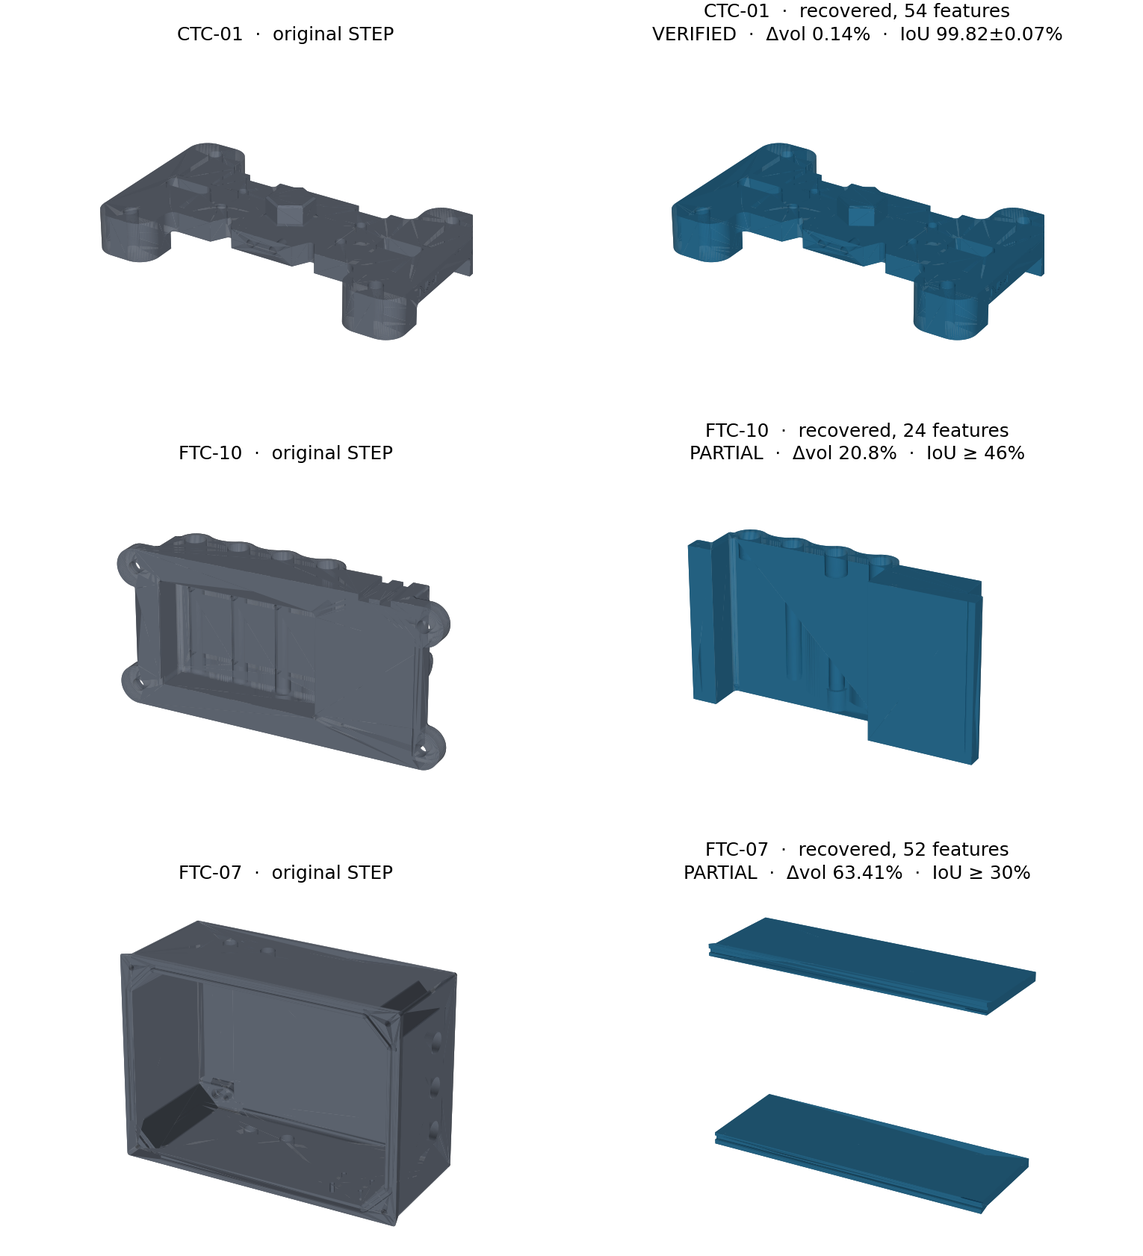
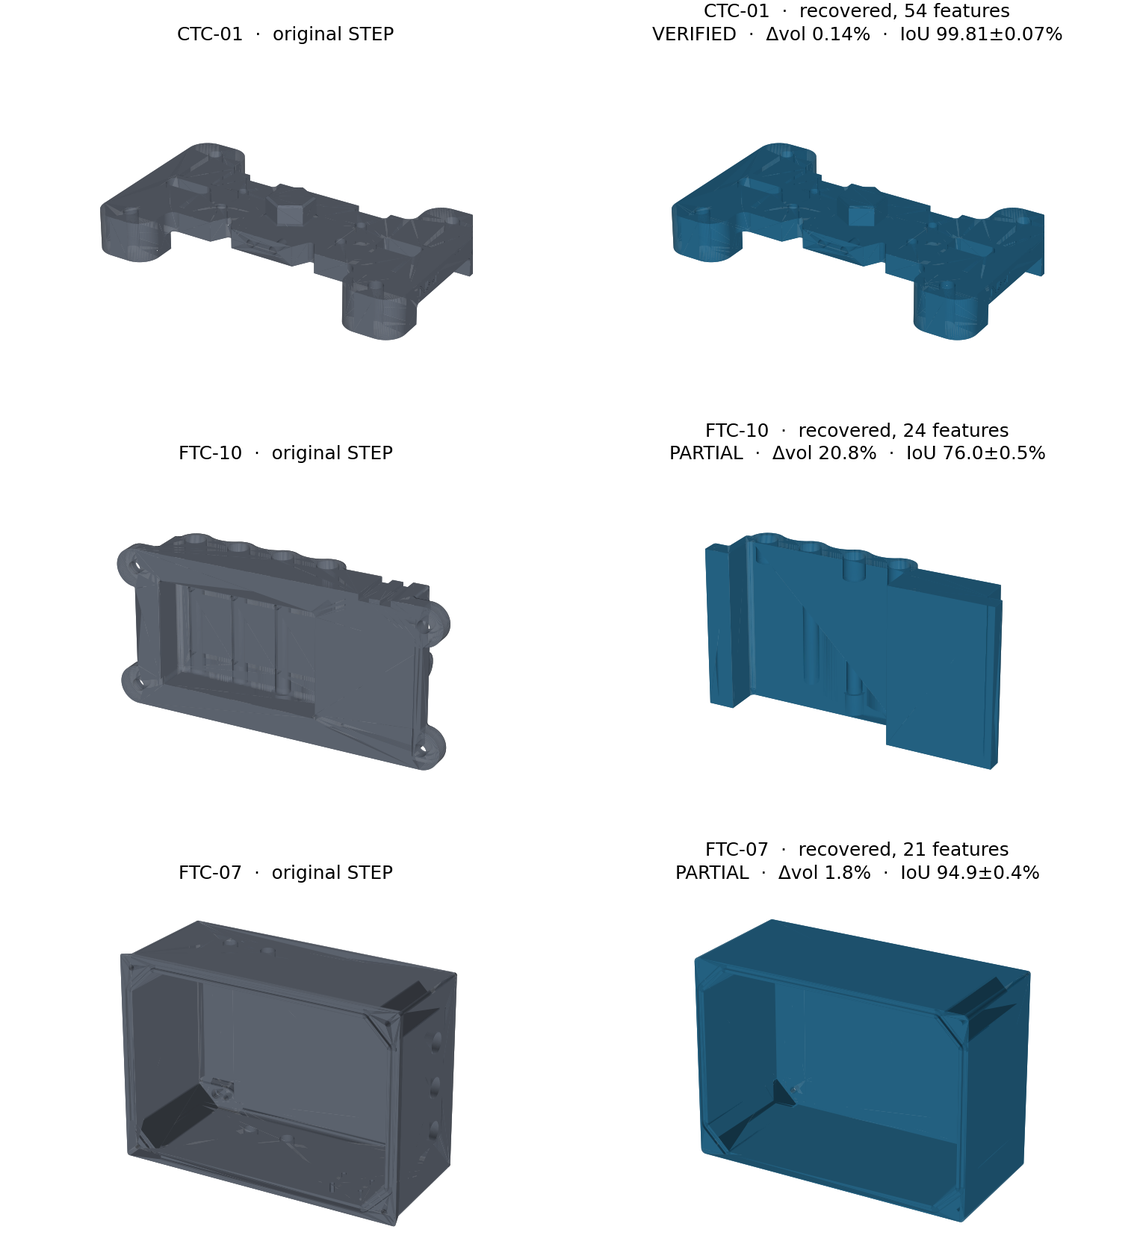
paper: open shells with draft, exact registration, design intent vs PMI
- System: draft (taper) in the IR, open-shell recognition from a slice stack
  along each principal axis, and exact registration.
- Table: IoU is exactly registered, so every PARTIAL figure is now a
  measurement; the earlier lower bounds were loose (FTC-10 >= 46.5 -> 76.0,
  CTC-03 >= 6.5 -> 36.1). FTC-07: 63.41% -> 1.80% volume error, 94.9% IoU.
- FTC-07 paragraph: recovered as a drafted pad and drafted cavity (86.7% in
  two operations, 94.9% after carving), plus the carving frame bug it exposed.
- CTC-04 is now MEASURED: 2.43% volume error, 30.8% IoU. The abstract and
  conclusion say so instead of the bbox-only argument.
- Booleans section compares Boolean vs Boolean-free at the SAME registration
  (58.5 vs 0.1 for CTC-03, 74.4 vs 1.2 for FTC-10).
- New section: design intent scored against the designer's semantic PMI --
  38/39 dimensioned holes, 36/36 nominal sizes, 3/3 unit systems.
- Limitations updated (intent partly addressed; draft only on open shells;
  Onshape has no draft yet). Figures regenerated.

diff --git a/paper/main.tex b/paper/main.tex
@@ -20,6 +20,7 @@
 \usepackage{lmodern}
 \usepackage{microtype}
 \usepackage{amsmath}
+\usepackage{amssymb}
 \usepackage{booktabs}
 \usepackage{graphicx}
 \usepackage{siunitx}
@@ -65,8 +66,11 @@ exceed \SI{99.6}{\percent} IoU against the input, measured without Boolean
 operations. We also report a negative result about our own
 acceptance criterion: a scalar volume comparison lets over-cut and uncut
 material cancel, and on one part a reconstruction agreeing to
-\SI{2.43}{\percent} on volume matches no orientation of the target's bounding
-box at all. A two-sided IoU test eliminates the failure mode. We claim no methodological novelty; we claim an available,
+\SI{2.43}{\percent} on volume overlaps its target by only \SI{31}{\percent}.
+A two-sided IoU test eliminates the failure mode. Finally we infer design
+intent --- holes, patterns, units and standard sizes --- and score it against
+the designer's own semantic PMI: 38 of 39 dimensioned holes recovered, all 36
+nominal sizes and all three unit systems correct. We claim no methodological novelty; we claim an available,
 honest implementation and a measured account of where it fails.
 \end{abstract}
 
@@ -176,7 +180,8 @@ rather than as nonexistent.
 
 The intermediate representation is a list of named, ordered features ---
 \code{sketch}, \code{pad}, \code{pocket}, \code{revolve}, \code{prism\_cut},
-\code{fillet} --- as plain JSON. Geometry is selected by \emph{query},
+\code{fillet} --- as plain JSON. Pads and blind pockets carry an optional draft
+(taper) angle, which build123d and FreeCAD emit natively. Geometry is selected by \emph{query},
 re-resolved against live geometry at each build rather than by persisted kernel
 identifiers, which is what lets one IR drive structurally different backends and
 lets edits be matched back by name. Authored IR uses human-meaningful names;
@@ -192,6 +197,24 @@ residual is carved feature by feature, each remaining lump itself recognised as
 a profile extruded along its own axis. Because several axes can appear
 prismatic, candidates are not scored heuristically --- one is generated per axis
 and the verifier selects the winner.
+
+\paragraph{Open shells.} Boxes, cups and enclosures are not prisms along any
+axis: across the opening a section cuts stray walls, and along it the section
+changes with depth. Looking at the part from several aspects exposes them.
+Along each principal axis a stack of 24 slices is cut (after a five-slice
+pre-check), and an axis whose slices are mostly \emph{rings} --- one region with
+a large inner loop --- solid at one end and open at the other, is an open shell.
+It is recovered as a designer would draw it: a pad of the outer outline and a
+blind pocket for the cavity, both drafted by an angle fitted to how the ring
+outlines grow with depth. The outlines are taken from clean wall slices and
+carried to the pad and pocket planes along the fitted draft, because the
+sections at the ends are often a foot or a rim lip rather than the wall. What
+remains is handed to the same carving loop.
+
+\paragraph{Registration.} Recovery works in the part's own frame: the chosen
+axis is rotated onto $+Z$ and an extrude is built from $z=0$. The recogniser
+reports that transform, so a recovered tree can be placed back onto its input
+exactly, with no orientation search.
 
 \paragraph{The gate.} Let $S$ be the input solid, $T$ a candidate tree and
 $E(T)$ its re-execution. We accept when the volume difference and a
@@ -214,33 +237,32 @@ rather than the recogniser.
 
 \begin{table}[htbp]
 \centering
-\caption{Recovery over the eleven-part NIST corpus. IoU is computed after
-rotation-aware co-registration, because recovery works in the part's own frame
-and the recovered solid is generally rotated relative to the input.
-$^\dagger$~marks a \emph{lower bound}: the best of 24 axis-aligned orientations
-under a bounding-box-corner alignment, which is not an optimal registration, so
-the true best-aligned overlap can only be higher. A multi-solid reconstruction
-is scored as a whole. IoU is estimated \emph{without Boolean operations}, by
-classifying 60\,000 uniformly sampled points against both solids; 95\%
-intervals are at most $\pm$\SI{1.5}{\percent} (Section~\ref{sec:booleans}).
-Regenerate with \code{paper/figures/run\_corpus.py} and
-\code{paper/figures/iou\_mc\_check.py}.}
+\caption{Recovery over the eleven-part NIST corpus. IoU is estimated
+\emph{without Boolean operations}, by classifying 60\,000 uniformly sampled
+points against both solids (95\% intervals at most $\pm$\SI{3.0}{\percent};
+Section~\ref{sec:booleans}), and is \emph{exactly registered}: the recogniser's
+own rotation and offset are undone, so every figure, \PARTIAL{} included, is a
+measurement rather than a bound. A multi-solid reconstruction is scored as a
+whole. Regenerate with \code{paper/figures/run\_corpus.py} and
+\code{paper/figures/iou\_mc\_check.py}; the full per-part record, including
+which gate test each \PARTIAL{} part failed, is
+\code{paper/figures/corpus\_table.md}.}
 \label{tab:corpus}
 \begin{tabular}{llS[table-format=2.2]S[table-format=3.0]S[table-format=2.1]S[table-format=3.1]}
 \toprule
 Part & Verdict & {$|\Delta V|/V$ (\%)} & {Features} & {Time (s)} & {IoU (\%)} \\
 \midrule
-CTC-01 & \VERIFIED  &  0.14 &  54 & 24.5 & 99.8 \\
-CTC-02 & \PARTIAL   & 62.19 &  64 & 90.0 &  3.9\rlap{$^\dagger$} \\
-CTC-03 & \PARTIAL   & 41.46 &  16 &  5.1 &  6.5\rlap{$^\dagger$} \\
-CTC-04 & \PARTIAL   &  2.43 & 270 & 81.5 & 25.0\rlap{$^\dagger$} \\
-CTC-05 & \PARTIAL   & 51.80 & 106 & 11.1 &  8.2\rlap{$^\dagger$} \\
-FTC-06 & \PARTIAL   & 31.85 &  44 & 11.5 & 39.3\rlap{$^\dagger$} \\
-FTC-07 & \PARTIAL   & 63.41 &  52 & 17.7 & 30.3\rlap{$^\dagger$} \\
-FTC-08 & \PARTIAL   & 32.61 &  24 & 62.7 & 53.3\rlap{$^\dagger$} \\
-FTC-09 & \VERIFIED  &  0.19 &  80 &  5.3 & 99.7 \\
-FTC-10 & \PARTIAL   & 20.80 &  24 & 26.3 & 46.5\rlap{$^\dagger$} \\
-FTC-11 & \VERIFIED  &  0.00 &   2 &  2.9 & 100.0 \\
+CTC-01 & \VERIFIED  &  0.14 &  54 & 28.9 & 99.8 \\
+CTC-02 & \PARTIAL   & 62.19 &  64 & 93.6 &  7.4 \\
+CTC-03 & \PARTIAL   & 41.46 &  16 & 13.0 & 36.1 \\
+CTC-04 & \PARTIAL   &  2.43 & 270 & 79.2 & 30.8 \\
+CTC-05 & \PARTIAL   & 51.80 & 106 & 18.2 & 14.5 \\
+FTC-06 & \PARTIAL   & 31.85 &  44 & 15.9 & 59.6 \\
+FTC-07 & \PARTIAL   &  1.80 &  21 & 57.0 & 94.9 \\
+FTC-08 & \PARTIAL   & 32.61 &  24 & 45.6 & 52.7 \\
+FTC-09 & \VERIFIED  &  0.19 &  80 & 10.3 & 99.7 \\
+FTC-10 & \PARTIAL   & 20.80 &  24 & 31.4 & 76.0 \\
+FTC-11 & \VERIFIED  &  0.00 &   2 &  3.3 & 100.0 \\
 \bottomrule
 \end{tabular}
 \end{table}
@@ -257,17 +279,16 @@ machine-readable verdict is a different and more useful contract than a higher
 rate with no soundness signal, and it is the property that makes the output safe
 to edit.
 
-\paragraph{What the \PARTIAL{} IoU figures do and do not say.} They are lower
-bounds, and the direction matters. We search 24 axis-aligned orientations under
-a bounding-box-corner alignment, so the true best-registered overlap is at least
-the figure reported and may be higher. Consequently these numbers establish a
-\emph{floor} on how much of each part was recovered --- \SI{3.9}{\percent} at
-worst, \SI{53.3}{\percent} at best --- and we explicitly do \emph{not} claim
-from them that the \PARTIAL{} recoveries are geometrically poor, nor that the
-two verdict classes are separated. Establishing that would need proper
-registration, which we have not done. What the figures are sound for is the
-opposite inference: a high lower bound certifies that a recovery is largely
-right, and FTC-08 at \SI{53.3}{\percent} is the closest of the eight.
+\paragraph{How good the \PARTIAL{} recoveries are.} Because registration is
+exact, the \PARTIAL{} figures measure how much of each part came back:
+\SI{7.4}{\percent} for CTC-02 up to \SI{94.9}{\percent} for FTC-07. An earlier
+version of this evaluation could only bound them from below, by searching 24
+axis-aligned orientations under a bounding-box-corner alignment, and the bounds
+were loose: FTC-10 was at least \SI{46.5}{\percent} and is \SI{76.0}{\percent},
+CTC-03 at least \SI{6.5}{\percent} and is \SI{36.1}{\percent}. On this corpus
+the verdict classes do not overlap --- every \VERIFIED{} part is above
+\SI{99.7}{\percent} and every \PARTIAL{} part below \SI{95}{\percent} --- but the
+gap is under five points and eleven parts are no basis for a threshold.
 
 \paragraph{An earlier threshold, not the vocabulary, was the binding
 constraint.} A previous version of this evaluation refused CTC-02, FTC-07 and
@@ -282,10 +303,11 @@ parallel prisms, which one pad per region recovers exactly. It is also what a
 hollow part looks like when cut across its walls, and FTC-07 is that case: an
 open-sided enclosure whose section along the recovered axis is its two opposing
 side walls. The multi-region path recovers those two walls and nothing that
-joins them, and the verifier reports \PARTIAL{} at a \SI{63.41}{\percent} volume
+joins them, and the verifier reported \PARTIAL{} at a \SI{63.41}{\percent} volume
 shortfall. Relaxing the first threshold to \SI{75}{\percent} and adding the second
 path converted all three refusals into \PARTIAL{} recoveries. For FTC-07 that
-gains a labelled tree, but it is a gain in recall, not in quality.
+gained a labelled tree but not a good one; the open-shell path does better
+(below).
 
 Crucially, this was safe to do \emph{because verification is downstream and
 independent of it}. The axis threshold is a recall knob, not a correctness knob:
@@ -296,6 +318,26 @@ and the verifier still has to accept the result. We confirmed this empirically
 structural, and it is the practical argument for separating recognition from
 acceptance. Refusal remains reachable for geometry outside the vocabulary
 entirely (a torus is still refused); it simply is not exercised by this corpus.
+
+\paragraph{FTC-07: looking from several aspects.} FTC-07 is a molded
+enclosure: an open box with \SI{1.0}{\degree} of draft on every wall, inside and
+out, a lip at the rim, slots in its side walls and bosses in its corners.
+Across its opening every section is two walls; along it, the section is the
+ring an open box should give, but it changes with depth. The open-shell path
+finds it on the one axis where 18 of 24 slices are rings, fits the
+\SI{1.0}{\degree} draft on both faces, and recovers it as a drafted pad and a
+drafted cavity pocket: two operations, \SI{86.7}{\percent} IoU. Carving the slots
+and bosses takes it to 21 features, a \SI{1.80}{\percent} volume error and
+\SI{94.9}{\percent} IoU, from two stray walls at \SI{63.41}{\percent}. It stays
+\PARTIAL{}, correctly: the rim lip and some details are not recovered.
+
+Getting there exposed a latent bug in the carving loop. It aligned the input to
+the rebuilt base by bounding-box corners in all three axes, which is right only
+when the base outline spans the part's full extent. The base sketch already uses
+the aligned part's own $X$ and $Y$, so only $Z$ differs; FTC-07's rim lip
+overhangs its drafted walls by \SI{3.18}{\milli\metre}, and every carved feature
+had landed \SI{3.18}{\milli\metre} off (\SI{92.3}{\percent} IoU before the fix,
+\SI{94.9}{\percent} after). No \VERIFIED{} part changed.
 
 \paragraph{Scale and comparability.} This is eleven parts. It establishes that
 the verdict contract holds on non-trivial standard geometry; it does not
@@ -347,8 +389,10 @@ eight \PARTIAL{} parts, and on the scalar alone it looks nearly recovered. Yet
 \emph{no} orientation of its reconstruction matches the input's bounding-box
 extents to within \SI{0.05}{\milli\metre}: the recovered solid has close to the
 right amount of material distributed through a measurably different envelope.
-A volume agreement of \SI{97.6}{\percent} therefore carries no implication of
-\SI{97.6}{\percent} shape agreement.
+Measured with exact registration, its reconstruction overlaps the input by
+\SI{30.8}{\percent}. A volume agreement of \SI{97.6}{\percent} carries no
+implication of \SI{97.6}{\percent} shape agreement; here it came with less than a
+third.
 
 This is why the shipped gate tests extent alongside volume, and CTC-04 is
 correctly rejected today at $\epsilon_V = \SI{0.5}{\percent}$. The point is what
@@ -356,10 +400,7 @@ happens under the obvious move when acceptance rates disappoint --- loosening
 $\epsilon_V$ to a few percent to admit ``nearly right'' recoveries. CTC-04 sits
 inside that relaxation while being demonstrably the wrong shape, and a scalar
 volume test has nothing left to reject it with. A two-sided criterion is what
-would make such a relaxation safe to consider at all. We note that our IoU
-figures are lower bounds and so cannot themselves quantify how wrong CTC-04 is;
-the bounding-box mismatch is the part of this we can state without
-qualification.
+would make such a relaxation safe to consider at all.
 
 \subsection{Booleans cannot be trusted to measure the failures}
 \label{sec:booleans}
@@ -369,11 +410,13 @@ between these operands returned degenerate results --- an empty intersection
 for solids whose bounding boxes coincide exactly. The union is not safe either.
 A previous version of this paper reported \PARTIAL{} IoU computed from unions
 guarded by the sanity checks $U \ge \max(A,B)$ and $\mathrm{IoU}\in[0,1]$.
-A Boolean-free re-measurement --- classifying 60\,000 sampled points against
-each solid --- disagreed on four of the eight \PARTIAL{} parts: CTC-03 had been
-reported at \SI{58.5}{\percent} and is \SI{6.5}{\percent}; FTC-10 at
-\SI{74.4}{\percent} and is \SI{46.5}{\percent}; CTC-02 and CTC-05 were also
-overstated. CTC-03 shows the characteristic signature: the ``union'' came back
+A Boolean-free re-measurement at the \emph{same} registration --- classifying
+60\,000 sampled points against each solid --- disagreed on four of the eight
+\PARTIAL{} parts: \SI{58.5}{\percent} against \SI{0.1}{\percent} for CTC-03,
+\SI{74.4}{\percent} against \SI{1.2}{\percent} for FTC-10, and smaller but real
+overstatements for CTC-02 and CTC-05. The FTC-10 case was caught by a picture:
+drawn in the registration its number came from, the recovery sat at right angles
+to the original under a caption claiming \SI{74}{\percent} overlap. CTC-03 shows the characteristic signature: the ``union'' came back
 equal to the larger operand, which makes IoU collapse to the volume ratio
 $B/A$ and satisfies $U \ge \max(A,B)$ with equality. That failure is
 \emph{plausible}, so no range check catches it.
@@ -385,34 +428,73 @@ report only where an independent, Boolean-free measurement has confirmed it,
 and it is least safe exactly where it matters most --- on the recoveries that
 failed. Any verifier built on Booleans inherits the same problem.
 
+\section{Design intent, scored against the designer's own PMI}
+\label{sec:intent}
+
+A \VERIFIED{} tree rebuilds the part, but it reads as a machine wrote it: holes
+are arcs inside generic pockets, equal holes are unrelated, and every size is a
+bare float. We re-express it the way a designer would have drawn it --- holes as
+holes (including a revolve's bores), counterbores, patterns (bolt circles,
+equally spaced lines, rectangles), the unit system (whichever grid explains the
+dimensions: each value earns the log-surprise of landing on its coarsest grid),
+and the standard size each diameter most plausibly is (1/64-inch
+fractions, letter and number drills per ASME B94.11M, decimals, metric). Because
+this never changes geometry it cannot break a \VERIFIED{} tree.
+
+The NIST AP242 files carry \emph{semantic} PMI --- dimensions with nominal
+values, tolerances and datums, each linked to the faces it applies to --- which
+is the designer's stated intent, so intent can be scored rather than
+demonstrated. We recover each part from its geometry-only file and read the PMI
+from its AP242 file; the two are different exports of one design (CTC-01:
+117 against 139 faces) but share a coordinate frame, and the exact registration
+carries recovered hole axes into it.
+
+\begin{table}[htbp]
+\centering
+\caption{Inferred intent against semantic PMI on the three \VERIFIED{} parts.
+Holes: callout-referenced holes matched by a recovered hole of the same diameter
+on the same axis line. Sizes: inferred nominal within \SI{0.01}{\milli\metre}
+of the callout. Regenerate with \code{paper/figures/intent\_eval.py}.}
+\label{tab:intent}
+\begin{tabular}{lcccc}
+\toprule
+Part & Holes & Nominal sizes & Units & Grouping P / R \\
+\midrule
+CTC-01 & 7/7   & 7/7   & metric \checkmark & {--} \\
+FTC-09 & 29/30 & 27/27 & inch \checkmark   & 0.78 / 0.78 \\
+FTC-11 & 2/2   & 2/2   & metric \checkmark & {--} \\
+\bottomrule
+\end{tabular}
+\end{table}
+
+38 of 39 dimensioned holes are recovered, all 36 inferred nominal sizes agree
+with the drawing, and the unit system is right on all three parts. FTC-09 is
+an inch part, and its holes come back as the drill sizes a machinist would pick:
+a 5/32\,in drill where the drawing says .156, letter drills A and K where it
+says .234 and .281. Pattern grouping is scored only on FTC-09, the only one of
+the three whose drawing groups holes (NIST: the CTC ``are not intended to be
+fully toleranced''), and a callout partition is a proxy for pattern truth, not
+the truth itself: a designer may dimension two holes of one pattern separately.
+
 \section{Limitations}
 \label{sec:limits}
 
 \begin{itemize}
 \item \textbf{Eleven parts.} A demonstration of the contract, not a study of a
   rate. A corpus-scale evaluation remains the obvious next step.
-\item \textbf{\PARTIAL{} IoU is a lower bound only.} Each figure is the best of 24
-  axis-aligned orientations under a bbox-corner alignment that is not optimal
-  (most \PARTIAL{} recoveries have the wrong extents, so the harness falls back
-  from its extent prefilter to all 24). The \PARTIAL{} figures in
-  Table~\ref{tab:corpus} can therefore only move upward. An earlier version of
-  this table scored multi-solid reconstructions on their first solid alone,
-  which understated CTC-02, FTC-07 and FTC-08; they are now scored whole. They are
-  sound as bounds, and they certify a floor on how much of each part was
-  recovered, but they cannot show that a recovery is \emph{bad} --- that would
-  need an upper limit, which this method does not provide. Proper registration
-  (ICP or a pose optimiser) would, and is the single change that would most
-  improve this evaluation.
-\item \textbf{Equivalence, not intent.} Verification certifies that $E(T)$
-  matches $S$, not that $T$ is the designer's history. Recovered feature names
-  are generated and carry no design intent.
+\item \textbf{Equivalence, and some intent.} Verification certifies that $E(T)$
+  matches $S$, not that $T$ is the designer's history. Section~\ref{sec:intent}
+  recovers holes, patterns, units and standard sizes, scored on three parts;
+  datums, and design intent beyond holes, are not yet inferred.
 \item \textbf{Edge blends are outside the vocabulary.} Fillets and chamfers are
   not swept profiles and are left as sub-tolerance residual, so a chamfered part
   can verify while the recovered tree has sharp edges.
 \item \textbf{Recovery is subtractive only.} Additive bosses cannot be
   recovered; such parts are reported \PARTIAL{}, not approximated.
 \item \textbf{Freeform geometry is rejected, not approximated.} Splines,
-  ellipses, lofts and sweeps admit no faithful sketch-and-pad tree.
+  lofts and sweeps admit no faithful sketch-and-pad tree. Draft is recognised
+  only on open shells; a drafted boss elsewhere is not. The Onshape backend
+  does not emit draft yet.
 \item \textbf{Tolerances are uncalibrated.} $\epsilon$ was chosen to separate
   observed successes from observed failures on the parts tested. It is not
   derived from a manufacturing tolerance model.
@@ -434,8 +516,8 @@ conformance geometry --- accepting a quarter of the corpus with no incorrect
 acceptances, and labelling the rest rather than guessing --- and we have
 measured a real weakness in the acceptance criterion we began with, together
 with the two-sided replacement that removes it. That weakness is not
-hypothetical: the part that comes closest to passing on volume matches no
-orientation of its target's bounding box.
+hypothetical: the part that comes closest to passing on volume overlaps its
+target by less than a third.
 
 \section*{Availability}
 

diff --git a/paper/figures/render_recovered.py b/paper/figures/render_recovered.py
@@ -132,17 +132,21 @@ def prepare(fn, out_npz):
     orig = whole(import_step(path))
 
     r_ = {r["part"]: r for r in json.load(open(IOU))["results"]}.get(fn) or {}
-    # "best" is absent if the 24-orientation search crashed; the fixed-rotation
-    # measurement is then the only Boolean-free number, and it is still valid.
     best = r_.get("best") or r_.get("at_harness_rot") or {}
-    rc = Rot(*best.get("rot", (0, 0, 0))) * Compound(rec)
-    bo, br = Compound(orig).bounding_box(), rc.bounding_box()
-    rc = Pos(bo.min.X - br.min.X, bo.min.Y - br.min.Y, bo.min.Z - br.min.Z) * rc
+    if rep.get("extrude_axis"):
+        # the exact transform the recogniser applied, undone (step_recognize.input_frame)
+        place, _, _ = sr.input_frame(Compound(orig), rep)
+        rc = place(Compound(rec))
+    else:
+        rc = Rot(*best.get("rot", (0, 0, 0))) * Compound(rec)
+        bo, br = Compound(orig).bounding_box(), rc.bounding_box()
+        rc = Pos(bo.min.X - br.min.X, bo.min.Y - br.min.Y, bo.min.Z - br.min.Z) * rc
     np.savez_compressed(
         out_npz, orig=tri_mesh(orig), rec=tri_mesh(list(rc.solids())),
         meta=json.dumps({"verdict": "VERIFIED" if rep.get("verified") else "PARTIAL",
                          "dvol": rep.get("dvol_pct"), "nfeat": len(spec.get("features", [])),
-                         "iou": best.get("iou_pct"), "ci": best.get("ci_pct")}))
+                         "iou": best.get("iou_pct"), "ci": best.get("ci_pct"),
+                         "exact": best.get("registration") == "exact"}))
 
 
 def main():
@@ -175,21 +179,25 @@ def main():
         d = np.load(npz)
         m = json.loads(str(d["meta"]))
         rows.append((label, view, d["orig"], d["rec"], m["verdict"], m["dvol"], m["nfeat"],
-                     m["iou"], m["ci"]))
+                     m["iou"], m["ci"], m.get("exact", False)))
         print(f"    {m['verdict']}  dvol={m['dvol']}%  features={m['nfeat']}", flush=True)
 
     per_row = 2 if args.all else 1                       # part-pairs per figure row
     nrows = -(-len(rows) // per_row)
     ncols = 2 * per_row
     fig = plt.figure(figsize=(4.5 * ncols, (3.0 if args.all else 3.3) * nrows))
-    for i, (label, view, orig, rec, verdict, dvol, nfeat, iou_pct, iou_ci) in enumerate(rows):
+    for i, (label, view, orig, rec, verdict, dvol, nfeat, iou_pct, iou_ci, exact) in enumerate(rows):
         a1 = fig.add_subplot(nrows, ncols, 2 * i + 1, projection="3d")
         a2 = fig.add_subplot(nrows, ncols, 2 * i + 2, projection="3d")
         t = np.concatenate([orig.reshape(-1, 3), rec.reshape(-1, 3)])
         frame = (t.min(0), t.max(0))          # one box for both, so scale is honest
-        # VERIFIED parts are effectively exact; a PARTIAL's IoU is a floor, so say so
-        iou_txt = (f"IoU {iou_pct:.2f}±{iou_ci:.2f}%" if verdict == "VERIFIED"
-                   else f"IoU ≥ {iou_pct:.0f}%") if iou_pct is not None else ""
+        # exactly registered IoU is a measurement; only a search-registered one is a floor
+        if iou_pct is None:
+            iou_txt = ""
+        elif verdict == "VERIFIED":
+            iou_txt = f"IoU {iou_pct:.2f}±{iou_ci:.2f}%"
+        else:
+            iou_txt = f"IoU {iou_pct:.1f}±{iou_ci:.1f}%" if exact else f"IoU ≥ {iou_pct:.0f}%"
         fs = 17 if args.all else 10.5     # the gallery is shown at ~1/4 size in a blog column
         draw(a1, orig, C_ORIG, f"{label}  ·  original" if args.all else f"{label}  ·  original STEP",
              view, frame, fs)
@@ -204,7 +212,7 @@ def main():
     else:
         fig.subplots_adjust(left=0.0, right=1.0, top=0.965, bottom=0.0, wspace=0.0, hspace=0.12)
     fig.savefig(out_path, dpi=150 if args.all else 170, facecolor="white")
-    print(f"\nwrote {out_path}")
+    print(f"\nwrote {out_path}", flush=True)
 
 
 if __name__ == "__main__":
